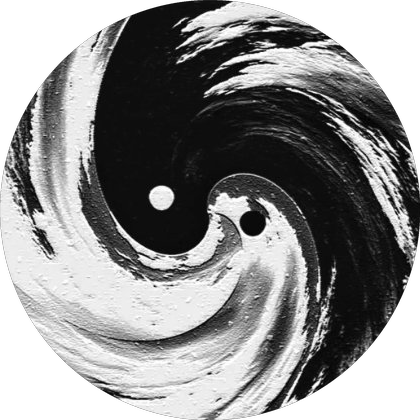
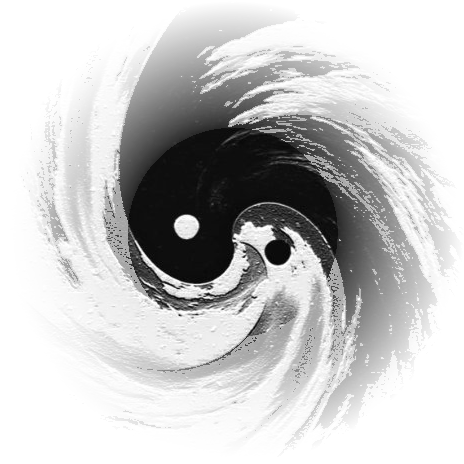
feat(yinyang): implement sinister villain aura with counter-clockwise rotation and natural ink tendrils

diff --git a/src/styles/winged_tooltip.css b/src/styles/winged_tooltip.css
@@ -311,8 +311,9 @@ html[data-cgg-theme="yinYang"] .cgg-winged-tooltip.cgg-level-4 .cgg-winged-toolt
 }
 
 /* ==========================================================================
-   Centered Yin Yang Vortex Engine (Outside the content pill)
-   Placed in the center, spinning serenely: 1 full rotation per 5 minutes (300s)
+   Centered Yin Yang Vortex Engine (Villain Aura Edition)
+   Spinning COUNTER-CLOCKWISE: 1 full rotation per 5 minutes (300s)
+   Natural jagged ink & brush tendrils (no cookie-cutter circular boundary)
    ========================================================================== */
 .cgg-yinyang-vortex {
   display: none;
@@ -324,11 +325,10 @@ html[data-cgg-theme="yinYang"] .cgg-winged-tooltip.cgg-level-4 .cgg-winged-toolt
   background-size: contain !important;
   background-repeat: no-repeat !important;
   background-position: center !important;
-  border-radius: 50% !important;
   pointer-events: none !important;
   z-index: 1 !important;
   will-change: transform !important;
-  animation: cgg-vortex-spin-clock 300s linear infinite !important;
+  animation: cgg-vortex-spin-counter 300s linear infinite !important;
 }
 
 .cgg-winged-tooltip.cgg-tooltip-yinyang .cgg-yinyang-vortex {
@@ -343,67 +343,138 @@ html[data-cgg-theme="yinYang"] .cgg-winged-tooltip.cgg-level-4 .cgg-winged-toolt
   filter: grayscale(1) !important;
 }
 
-/* Level 1: 56px */
+/* Level 1: 58px */
 .cgg-yinyang-vortex.cgg-yinyang-vortex-level-1 {
-  width: 56px !important;
-  height: 56px !important;
+  width: 58px !important;
+  height: 58px !important;
   opacity: 0.88 !important;
-  filter: drop-shadow(0 0 6px rgba(255, 255, 255, 0.35)) !important;
+  filter: drop-shadow(0 0 10px rgba(0, 0, 0, 0.95)) drop-shadow(0 0 4px rgba(255, 255, 255, 0.35)) contrast(1.15) brightness(1.05) !important;
 }
 
-/* Level 2: 74px */
+/* Level 2: 78px */
 .cgg-yinyang-vortex.cgg-yinyang-vortex-level-2 {
-  width: 74px !important;
-  height: 74px !important;
+  width: 78px !important;
+  height: 78px !important;
   opacity: 0.95 !important;
-  filter: drop-shadow(0 0 10px rgba(255, 255, 255, 0.5)) !important;
+  filter: drop-shadow(0 0 14px rgba(0, 0, 0, 0.95)) drop-shadow(0 0 6px rgba(255, 255, 255, 0.45)) contrast(1.18) brightness(1.05) !important;
 }
 
-/* Level 3: 92px */
+/* Level 3: 98px */
 .cgg-yinyang-vortex.cgg-yinyang-vortex-level-3 {
-  width: 92px !important;
-  height: 92px !important;
+  width: 98px !important;
+  height: 98px !important;
   opacity: 1 !important;
-  filter: drop-shadow(0 0 16px rgba(255, 255, 255, 0.7)) drop-shadow(0 0 2px #ffffff) !important;
+  filter: drop-shadow(0 0 18px rgba(0, 0, 0, 1)) drop-shadow(0 0 8px rgba(255, 255, 255, 0.6)) contrast(1.22) brightness(1.06) !important;
 }
 
-/* Level 4: 112px */
+/* Level 4: 120px - Raw villain brush tendrils & dark miasma */
 .cgg-yinyang-vortex.cgg-yinyang-vortex-level-4 {
-  width: 112px !important;
-  height: 112px !important;
+  width: 120px !important;
+  height: 120px !important;
   opacity: 1 !important;
-  filter: drop-shadow(0 0 22px rgba(255, 255, 255, 0.9)) drop-shadow(0 0 4px #ffffff) !important;
+  filter: drop-shadow(0 0 24px rgba(0, 0, 0, 1)) drop-shadow(0 0 12px rgba(255, 255, 255, 0.75)) drop-shadow(0 0 2px #ffffff) contrast(1.25) brightness(1.08) !important;
 }
 
-/* 1K+ Transcendent: 132px */
+/* 1K+ Transcendent Calamity: 142px */
 .cgg-yinyang-vortex.cgg-yinyang-vortex-level-1k {
-  width: 132px !important;
-  height: 132px !important;
+  width: 142px !important;
+  height: 142px !important;
   opacity: 1 !important;
-  filter: drop-shadow(0 0 30px rgba(255, 255, 255, 1)) drop-shadow(0 0 6px #ffffff) !important;
+  filter: drop-shadow(0 0 32px rgba(0, 0, 0, 1)) drop-shadow(0 0 18px rgba(255, 255, 255, 0.9)) drop-shadow(0 0 4px #ffffff) contrast(1.3) brightness(1.1) !important;
 }
 
-@keyframes cgg-vortex-spin-clock {
+@keyframes cgg-vortex-spin-counter {
   from {
     transform: translate(-50%, -50%) rotate(0deg);
   }
   to {
-    transform: translate(-50%, -50%) rotate(360deg);
+    transform: translate(-50%, -50%) rotate(-360deg);
   }
 }
 
 /* ==========================================================================
-   Completely Remove Side Wings & Halos in Yin Yang
+   Yin Yang Villain Cursed Aura (Dark Smoky Miasma Layer)
+   Organic morphing shadow layer pulsating behind the vortex
+   ========================================================================== */
+.cgg-yinyang-aura {
+  display: none;
+  position: absolute;
+  top: 50%;
+  left: 50%;
+  transform: translate(-50%, -50%);
+  border-radius: 46% 54% 58% 42% / 44% 48% 52% 56%;
+  pointer-events: none;
+  z-index: 0;
+  will-change: transform, border-radius;
+  background: radial-gradient(circle at 50% 50%, rgba(0, 0, 0, 0.8) 0%, rgba(15, 15, 15, 0.55) 45%, rgba(255, 255, 255, 0.1) 75%, transparent 100%) !important;
+  box-shadow: 0 0 16px 4px rgba(0, 0, 0, 0.95), 0 0 32px 8px rgba(0, 0, 0, 0.8), 0 0 18px 2px rgba(255, 255, 255, 0.18), inset 0 0 14px rgba(0, 0, 0, 0.9) !important;
+  animation: cgg-villain-aura-pulse 5.5s ease-in-out infinite alternate !important;
+}
+
+.cgg-winged-tooltip.cgg-tooltip-yinyang .cgg-yinyang-aura {
+  display: block;
+}
+
+.cgg-yinyang-aura.cgg-yinyang-aura-level-1 {
+  width: 70px !important;
+  height: 70px !important;
+  opacity: 0.6 !important;
+}
+
+.cgg-yinyang-aura.cgg-yinyang-aura-level-2 {
+  width: 92px !important;
+  height: 92px !important;
+  opacity: 0.75 !important;
+}
+
+.cgg-yinyang-aura.cgg-yinyang-aura-level-3 {
+  width: 114px !important;
+  height: 114px !important;
+  opacity: 0.88 !important;
+}
+
+.cgg-yinyang-aura.cgg-yinyang-aura-level-4 {
+  width: 138px !important;
+  height: 138px !important;
+  opacity: 0.95 !important;
+  box-shadow: 0 0 24px 6px rgba(0, 0, 0, 1), 0 0 44px 12px rgba(0, 0, 0, 0.9), 0 0 24px 4px rgba(255, 255, 255, 0.28), inset 0 0 18px rgba(0, 0, 0, 0.95) !important;
+}
+
+.cgg-yinyang-aura.cgg-yinyang-aura-level-1k {
+  width: 162px !important;
+  height: 162px !important;
+  opacity: 1 !important;
+  box-shadow: 0 0 32px 8px rgba(0, 0, 0, 1), 0 0 56px 16px rgba(0, 0, 0, 0.95), 0 0 32px 6px rgba(255, 255, 255, 0.38), inset 0 0 24px rgba(0, 0, 0, 1) !important;
+}
+
+@keyframes cgg-villain-aura-pulse {
+  0% {
+    transform: translate(-50%, -50%) scale(0.96) rotate(0deg);
+    border-radius: 46% 54% 58% 42% / 44% 48% 52% 56%;
+    filter: blur(2px);
+  }
+  50% {
+    transform: translate(-50%, -50%) scale(1.08) rotate(-180deg);
+    border-radius: 54% 46% 40% 60% / 56% 44% 58% 42%;
+    filter: blur(4px);
+  }
+  100% {
+    transform: translate(-50%, -50%) scale(0.98) rotate(-360deg);
+    border-radius: 48% 52% 54% 46% / 42% 58% 46% 54%;
+    filter: blur(2px);
+  }
+}
+
+/* ==========================================================================
+   Completely Remove Side Wings, Crimson Halo & Gold Crown in Yin Yang
    ========================================================================== */
 .cgg-winged-tooltip.cgg-tooltip-yinyang .cgg-winged-tooltip-wing,
 .cgg-winged-tooltip.cgg-tooltip-yinyang .cgg-crimson-halo,
-.cgg-winged-tooltip.cgg-tooltip-yinyang .cgg-yinyang-aura,
 .cgg-winged-tooltip.cgg-tooltip-yinyang .cgg-tooltip-crown,
 .cgg-winged-tooltip.cgg-tooltip-yinyang .cgg-tooltip-grand-badge,
 .cgg-winged-tooltip.cgg-tooltip-yinyang .cgg-tooltip-yinyang-badge,
 html[data-cgg-theme="yinYang"] .cgg-winged-tooltip .cgg-winged-tooltip-wing,
 html[data-cgg-theme="yinYang"] .cgg-winged-tooltip .cgg-crimson-halo,
-html[data-cgg-theme="yinYang"] .cgg-winged-tooltip .cgg-yinyang-aura,
 html[data-cgg-theme="yinYang"] .cgg-winged-tooltip .cgg-tooltip-crown,
 html[data-cgg-theme="yinYang"] .cgg-winged-tooltip .cgg-tooltip-grand-badge,
 html[data-cgg-theme="yinYang"] .cgg-winged-tooltip .cgg-tooltip-yinyang-badge {

diff --git a/src/features/winged_tooltip.js b/src/features/winged_tooltip.js
@@ -74,10 +74,26 @@ const WingedTooltip = {
           vortex.style.display = "none";
         }
       }
+
+      // Villain shadow aura layer behind the vortex
+      const aura = host.querySelector(".cgg-yinyang-aura");
+      if (aura) {
+        if (enableWings && (level >= 1 || isGrand1k)) {
+          const auraLevelClass = isGrand1k ? "cgg-yinyang-aura-level-1k" : `cgg-yinyang-aura-level-${level}`;
+          aura.className = `cgg-yinyang-aura ${auraLevelClass}`;
+          aura.style.display = "";
+        } else {
+          aura.style.display = "none";
+        }
+      }
     } else {
       const vortex = host.querySelector(".cgg-yinyang-vortex");
       if (vortex) {
         vortex.style.display = "none";
+      }
+      const aura = host.querySelector(".cgg-yinyang-aura");
+      if (aura) {
+        aura.style.display = "none";
       }
 
       if (enableWings && (level === 3 || level === 4 || isGrand1k)) {

diff --git a/src/features/tooltip/host_element.js b/src/features/tooltip/host_element.js
@@ -13,6 +13,7 @@ const TooltipHost = {
     host.id = "cggWingedTooltip";
     host.setAttribute("aria-hidden", "true");
     host.innerHTML = '<span class="cgg-crimson-halo"></span>' +
+                     '<span class="cgg-yinyang-aura"></span>' +
                      '<span class="cgg-yinyang-vortex"></span>' +
                      '<span class="cgg-winged-tooltip-wing cgg-winged-tooltip-wing-left"></span>' +
                      '<span class="cgg-winged-tooltip-content"></span>' +
